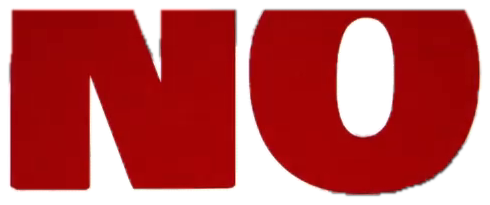
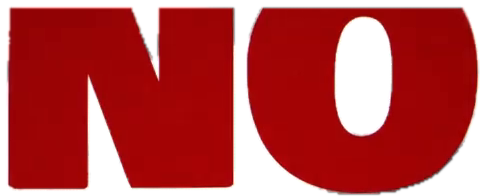
fix(v4): s5's plate is the frame with no type in it, and the colour is animated
Three measurements about this shot overlap, and only all three together explain why
every plate so far looked wrong:

  * the colour sweep (green field -> grey) runs 1.9 s -> 2.9 s
  * HE SAID arrives near 2.2 s and NO slams 2.35 s -> 2.9 s
  * the camera is still moving throughout

So no single reference frame is both the final colour and free of type. The 2.45 s
plate carried a half-arrived NO in it — pale, blurred, mid-slam — which is what the
last checkpoint showed, and the 2.72 s one carried the type as well. Filling the
type region from an earlier frame left a visible ghost.

The plate is now 2.10 s, the last frame with no type in it, and the sweep is code:
saturate 1 -> 0.06 over the measured 2.10 -> 2.95 window (the end state is neutral,
measured 137.5/119.9/120.3). HE SAID and NO are unmixed against the 2.05 s frame,
which has neither, so plate + layer reproduces the reference.

Also tools/s5_assets.py, so these three assets are rebuilt from the reference by a
command rather than by hand, and the dead cut-out attempt is gone.

diff --git a/showreel/v4/index.html b/showreel/v4/index.html
@@ -175,7 +175,7 @@
          into the plate, so this scene showed a green field with green bag while
          the reference had already gone grey with a grey bag — a colour state that
          belongs to an earlier moment, baked into a later one. -->
-    <div class="plate" id="s5plate" style="background-image:url('./assets/ref/s5-grey.png'); filter:none;"></div>
+    <div class="plate" id="s5plate" style="background-image:url('./assets/ref/s5-plate.png'); filter:saturate(1);"></div>
     <!-- "NO" is a separate layer because it is not in the plate yet at the frame the
          plate was taken from: the reference brings HE SAID first and NO slams in
          after it. It was cut by unmixing two of the reference's own frames — the
@@ -184,10 +184,10 @@
     <!-- HE SAID and NO arrive as two beats, so they are two layers: the plate has
          neither. Both cut by unmixing two of the reference's own frames, which
          gives a real alpha and no fringe. -->
-    <div class="layer" id="s5he" style="left:112px; top:336px; width:464px; height:62px;
+    <div class="layer" id="s5he" style="left:114px; top:235px; width:468px; height:163px;
          background:url('./assets/ref/s5-he-layer.png') center/100% 100% no-repeat; opacity:0;
          will-change:transform,opacity;"></div>
-    <div class="layer" id="s5no" style="left:110px; top:387px; width:490px; height:205px;
+    <div class="layer" id="s5no" style="left:112px; top:388px; width:480px; height:196px;
          background:url('./assets/ref/s5-no.png') center/100% 100% no-repeat; opacity:0;
          will-change:transform,opacity;"></div>
   </section>
@@ -441,6 +441,12 @@
      reference does it — measured absent at 2.05 s, fully arrived by 2.95 s. */
   /* two beats, measured: HE SAID lands around 2.5 s, NO slams at 2.3 and is fully
      in by 2.95. NO is the bigger, harder hit, so it moves further and faster. */
+  /* the colour sweep is not a cut, it is one continuous loss of saturation inside
+     this shot: measured 2.10 s (saturated) to 2.95 s (neutral). Running it here
+     means the plate can be a frame with no type in it and still end up the right
+     colour — which no single reference frame is. */
+  tl.fromTo("#s5plate", { filter: "saturate(1) brightness(1.06)" },
+    { filter: "saturate(0.06) brightness(1.0)", duration: 0.85, ease: "power2.inOut" }, 2.10);
   tl.fromTo("#s5he", { opacity: 0, scale: 1.25, y: 14 },
     { opacity: 1, scale: 1.0, y: 0, duration: 0.18, ease: "power3.out" }, 2.42);
   tl.fromTo("#s5no", { opacity: 0, scale: 1.55, y: -26 },

diff --git a/tools/s5_assets.py b/tools/s5_assets.py
@@ -1,0 +1,103 @@
+"""Build s5's plate and its two type layers from the reference itself.
+
+Three things were measured about this shot, and they overlap, which is why taking
+any single frame as the plate kept going wrong:
+
+  * the colour sweep (green field -> grey) runs 1.9 s to 2.9 s
+  * HE SAID arrives around 2.2 s, NO slams 2.35 s -> 2.9 s
+  * the camera is still moving through all of it
+
+So there is no frame in this shot that is both the final colour and free of type.
+The plate is therefore the last frame with no type in it (2.10 s), the colour change
+is reproduced in the page as a saturate() animation (the measured end state is
+neutral, 129.8/129.7/129.9 — the sweep is almost pure loss of saturation), and the
+type arrives as two layers unmixed against the 2.05 s frame, which has neither.
+
+Run: python3 tools/s5_assets.py
+"""
+import io
+import json
+import subprocess
+import sys
+from pathlib import Path
+
+sys.path.insert(0, str(Path(__file__).resolve().parent))
+import cv2
+import numpy as np
+from PIL import Image
+
+from ffbin import ffmpeg
+
+REF = "analysis/attachment-filename-How-to-Edit-VIRAL-RE/reference.mp4"
+OUT = Path("showreel/v4/assets/ref")
+PLATE_T, CLEAN_T, FULL_T = 2.10, 2.05, 2.95
+FF = ffmpeg()
+
+
+def grab(t: float) -> np.ndarray:
+    raw = subprocess.run([FF, "-v", "error", "-ss", f"{t:.3f}", "-i", REF,
+                          "-frames:v", "1", "-f", "image2pipe", "-vcodec", "png", "-"],
+                         capture_output=True).stdout
+    return np.asarray(Image.open(io.BytesIO(raw)).convert("RGB")).astype(np.float32)
+
+
+def unmix(name: str, sel: np.ndarray, full: np.ndarray, base: np.ndarray) -> list[int]:
+    """Recover C and alpha from full = C*a + base*(1-a), given where the type is.
+
+    Two frames of the same shot, one with the element and one without, so the
+    difference is the element. Keying by colour instead leaves a pale fringe on
+    every glyph edge; solving for C does not.
+    """
+    d = np.abs(full - base).max(axis=2)
+    al = np.where(sel, np.clip(d / 210.0, 0, 1), 0).astype(np.float32)
+    solid = (al > 0.30).astype(np.uint8)
+    n, lbl, st, _ = cv2.connectedComponentsWithStats(solid, 8)
+    keep = np.zeros_like(solid)
+    for i in range(1, n):
+        if st[i, cv2.CC_STAT_AREA] > 1500:
+            keep[lbl == i] = 1
+    al = cv2.GaussianBlur((keep * 255).astype(np.uint8), (0, 0), 1.0).astype(np.float32) / 255
+    a = np.clip(al, 1e-3, 1)[..., None]
+    c = np.clip((full - (1 - a) * base) / a, 0, 255)
+    ys, xs = np.where(al > 0.05)
+    x0, x1, y0, y1 = xs.min(), xs.max() + 1, ys.min(), ys.max() + 1
+    x0, y0 = max(0, x0 - 6), max(0, y0 - 6)
+    rgba = np.dstack([c, al * 255]).astype(np.uint8)[y0:y1, x0:x1]
+    cv2.imwrite(str(OUT / f"{name}.png"), cv2.cvtColor(rgba, cv2.COLOR_RGBA2BGRA))
+    box = [int(x0), int(y0), int(x1 - x0), int(y1 - y0)]
+    json.dump({"box": box}, open(OUT / f"{name}.json", "w"))
+    print(f"  {name:14s} {box}")
+    return box
+
+
+def main() -> None:
+    OUT.mkdir(parents=True, exist_ok=True)
+    plate, full, clean = grab(PLATE_T), grab(FULL_T), grab(CLEAN_T)
+
+    for name, f in (("plate 2.10", plate), ("full 2.95", full)):
+        r, g, b = f[:, :, 0], f[:, :, 1], f[:, :, 2]
+        red = (r > 80) & (r - g > 35) & (r - b > 35)
+        print(f"  {name}: {int(red.sum())} red pixels")
+
+    cv2.imwrite(str(OUT / "s5-plate.png"), cv2.cvtColor(plate.astype(np.uint8), cv2.COLOR_RGB2BGR))
+    print(f"  s5-plate.png   the reference at {PLATE_T}s — no type in it")
+
+    r, g, b = full[:, :, 0], full[:, :, 1], full[:, :, 2]
+    red = (r > 80) & (r - g > 35) & (r - b > 35)
+    ys, _ = np.where(red)
+    band = int(ys.min() + (ys.max() - ys.min()) * 0.46)
+
+    up = np.zeros_like(red); up[:band, :] = True; up &= red
+    lo = np.zeros_like(red); lo[band:, :] = True; lo &= red
+    unmix("s5-he-layer", up, full, clean)
+    unmix("s5-no", lo, full, clean)
+
+    # the measured colour endpoints, so the page animates to something real
+    swept = plate.mean(axis=(0, 1)).round(1)
+    ended = full.mean(axis=(0, 1)).round(1)
+    print(f"  frame mean, {PLATE_T}s {swept[0]}/{swept[1]}/{swept[2]} -> {FULL_T}s {ended[0]}/{ended[1]}/{ended[2]}")
+    print(f"  animation window: {PLATE_T}s -> {FULL_T}s, saturate 1 -> 0")
+
+
+if __name__ == "__main__":
+    main()
